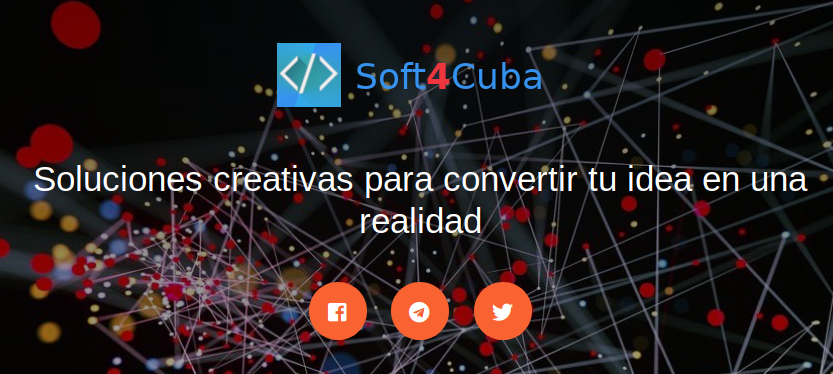
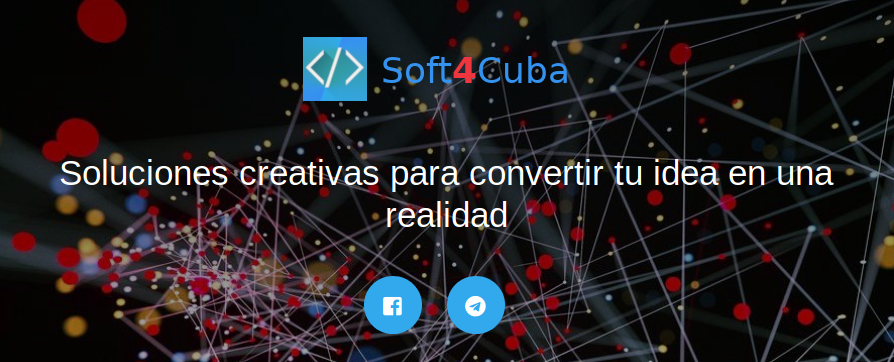
Updated

diff --git a/src/views/sections/About.vue b/src/views/sections/About.vue
@@ -27,24 +27,17 @@
                 <br />
                 <a
                   href="https://www.facebook.com/groups/495795397671271/"
-                  class="btn btn-primary btn-icon btn-round mr-2"
+                  class="btn btn-primary btn-icon btn-round mr-3"
                   target="_blank"
                 >
                   <i class="fab fa-facebook-square"></i>
                 </a>
                 <a
                   href="https://t.me/soft4cuba"
-                  class="btn btn-primary btn-icon btn-round mr-2"
+                  class="btn btn-primary btn-icon btn-round ml-4"
                   target="_blank"
                 >
                   <i class="fab fa-telegram"></i>
-                </a>
-                <a
-                  href="https://twitter.com/Soft4Cuba"
-                  class="btn btn-primary btn-icon btn-round"
-                  target="_blank"
-                >
-                  <i class="fab fa-twitter"></i>
                 </a>
               </p>
             </div>

diff --git a/public/index.html b/public/index.html
@@ -72,7 +72,7 @@
       position: absolute;
       top: 50%;
       left: 50%;
-      color: white;
+      color: #32a9ed !important;;
       width: 100px;
       height: 30px;
       margin: -7px 0 0 -45px;
@@ -89,13 +89,13 @@
       width: 170px;
       height: 170px;
       margin: -85px 0 0 -85px;
-      border: 3px solid #F00;
+      border: 3px solid #32a9ed;
     }
 
     #loading-content {
       border: 3px solid transparent;
-      border-top-color: #f96332;
-      border-bottom-color: #f96332;
+      border-top-color: #32a9ed;
+      border-bottom-color: #32a9ed;
       border-radius: 50%;
       -webkit-animation: loader 2s linear infinite;
       -moz-animation: loader 2s linear infinite;
@@ -115,6 +115,10 @@
         -ms-transform: rotate(360deg);
         transform: rotate(360deg);
       }
+    }
+
+    strong {
+      color: #ef353e;
     }
   </style>
 

diff --git a/src/views/Proyects.vue b/src/views/Proyects.vue
@@ -1,26 +1,20 @@
 <template>
   <div
     class="section section-nucleo-icons"
-    style="background-image: url('img/bg11.jpg'); background-size: cover; background-position: top center; min-height: 700px;"
+    style="background-image: url('img/wall2.jpg'); background-size: cover; background-position: top center; min-height: 700px;"
   >
     <div class="container">
       <Soft4Cuba />
-      <PDI />
-      <ML />
     </div>
   </div>
 </template>
 
 <script>
 import Soft4Cuba from './proyects/soft4cuba'
-import PDI from './proyects/pdipython'
-import ML from './proyects/mlnotebooks'
 
 export default {
   components: {
     Soft4Cuba,
-    PDI,
-    ML
   }
 };
 </script>

diff --git a/src/layout/MainFooter.vue b/src/layout/MainFooter.vue
@@ -36,14 +36,14 @@
           </li>
         </ul>
       </nav>
-      <div class="copyright text-primary">
+      <div class="copyright text-blue">
         <img
             src="@/assets/images/os.png"
             class="img img-fluid mx-auto"
             alt="OpenSource"
             width="50"
           />
-        <i class="fa fa-bullseye"></i> Soft<strong>4</strong>Cuba &copy; {{ year }} 
+        Soft<strong>4</strong>Cuba &copy; {{ year }} 
         <i class="fa fa-eye"></i> {{views}}
         
       </div>

diff --git a/src/views/sections/Home.vue b/src/views/sections/Home.vue
@@ -26,14 +26,6 @@
           >
             <i class="fab fa-telegram"></i>
           </a>
-          <a
-            data-aos="zoom-in"
-            href="https://twitter.com/Soft4Cuba"
-            class="btn btn-primary btn-icon btn-round btn-lg"
-            target="_blank"
-          >
-            <i class="fab fa-twitter"></i>
-          </a>
         </div>
       </div>
     </div>

diff --git a/src/App.vue b/src/App.vue
@@ -47,4 +47,17 @@ export default {
   }
 }
 
+.btn-primary {
+  background-color: #32a9ed !important;
+}
+
+.blockquote.blockquote-primary {
+  border-color: #32a9ed !important;
+  color:  #32a9ed !important;
+}
+
+.text-blue {
+  color: #32a9ed !important;
+}
+
 </style>
